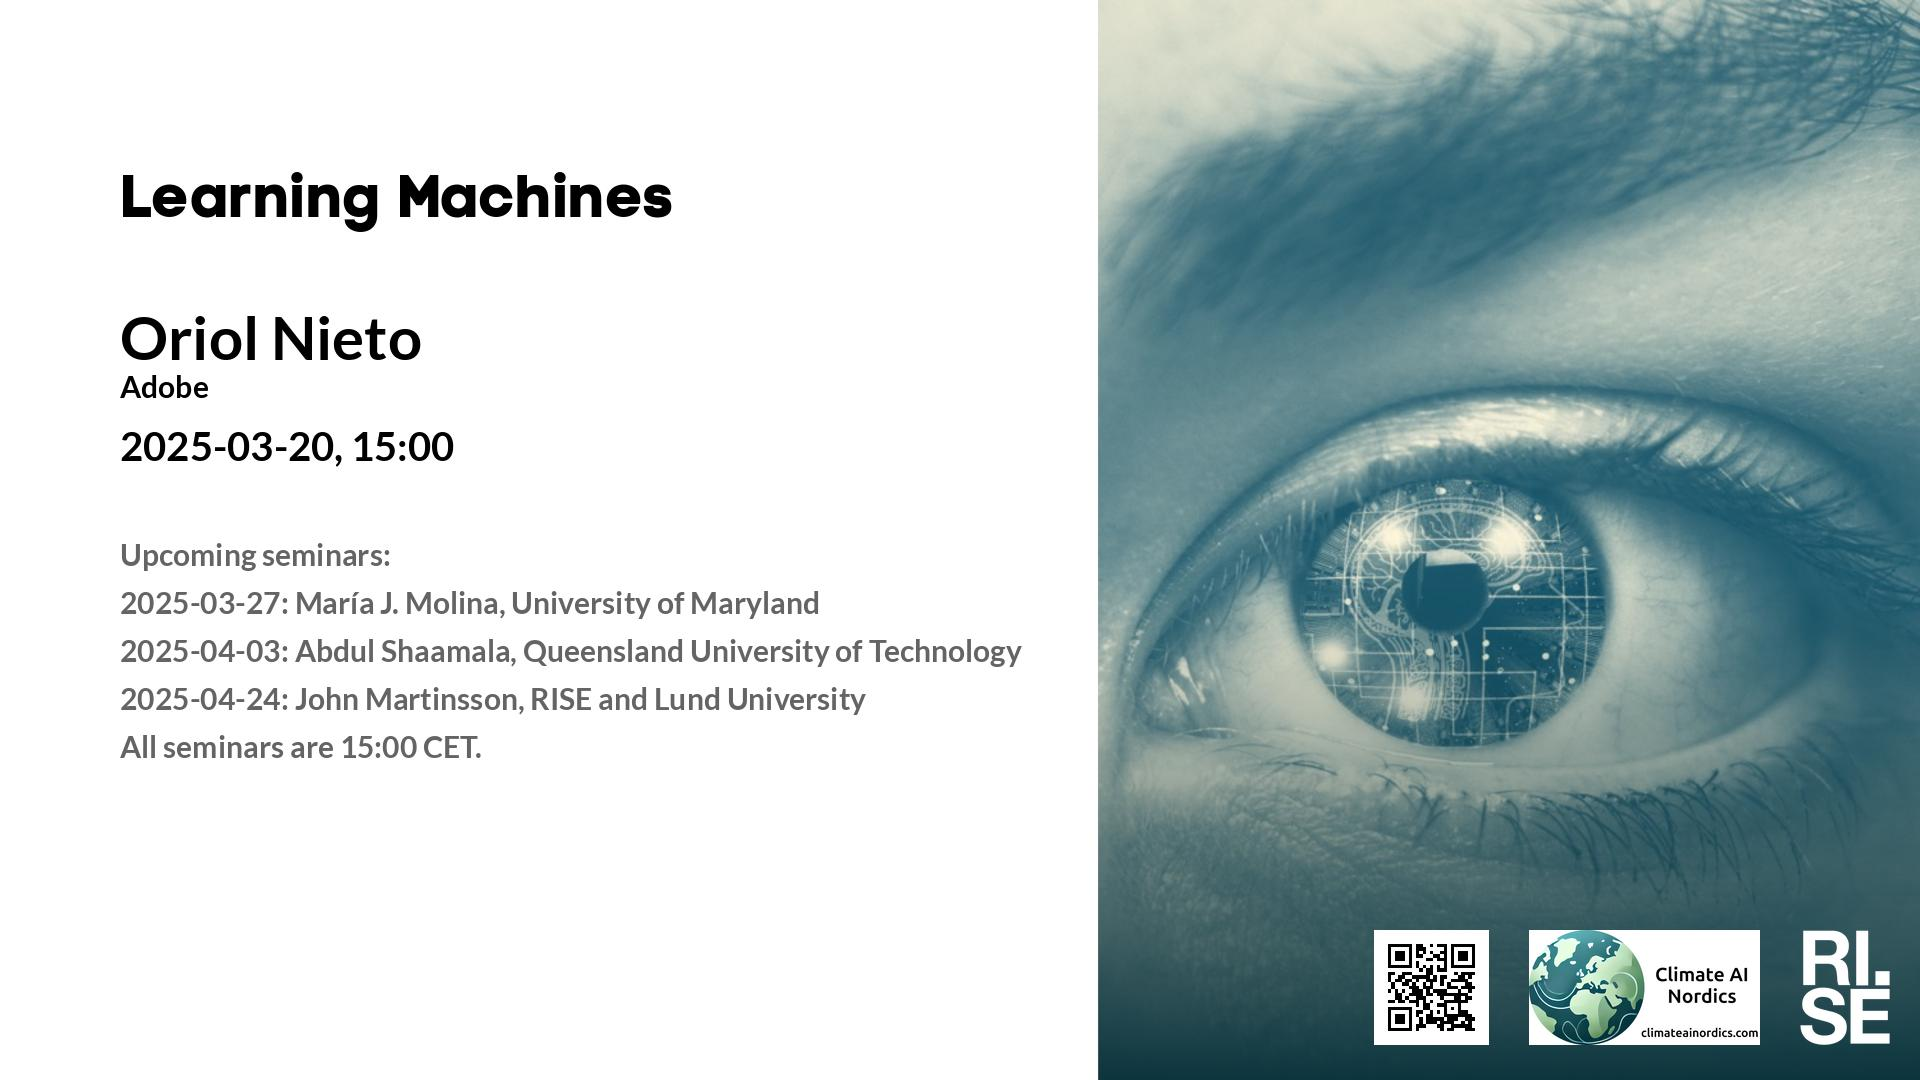
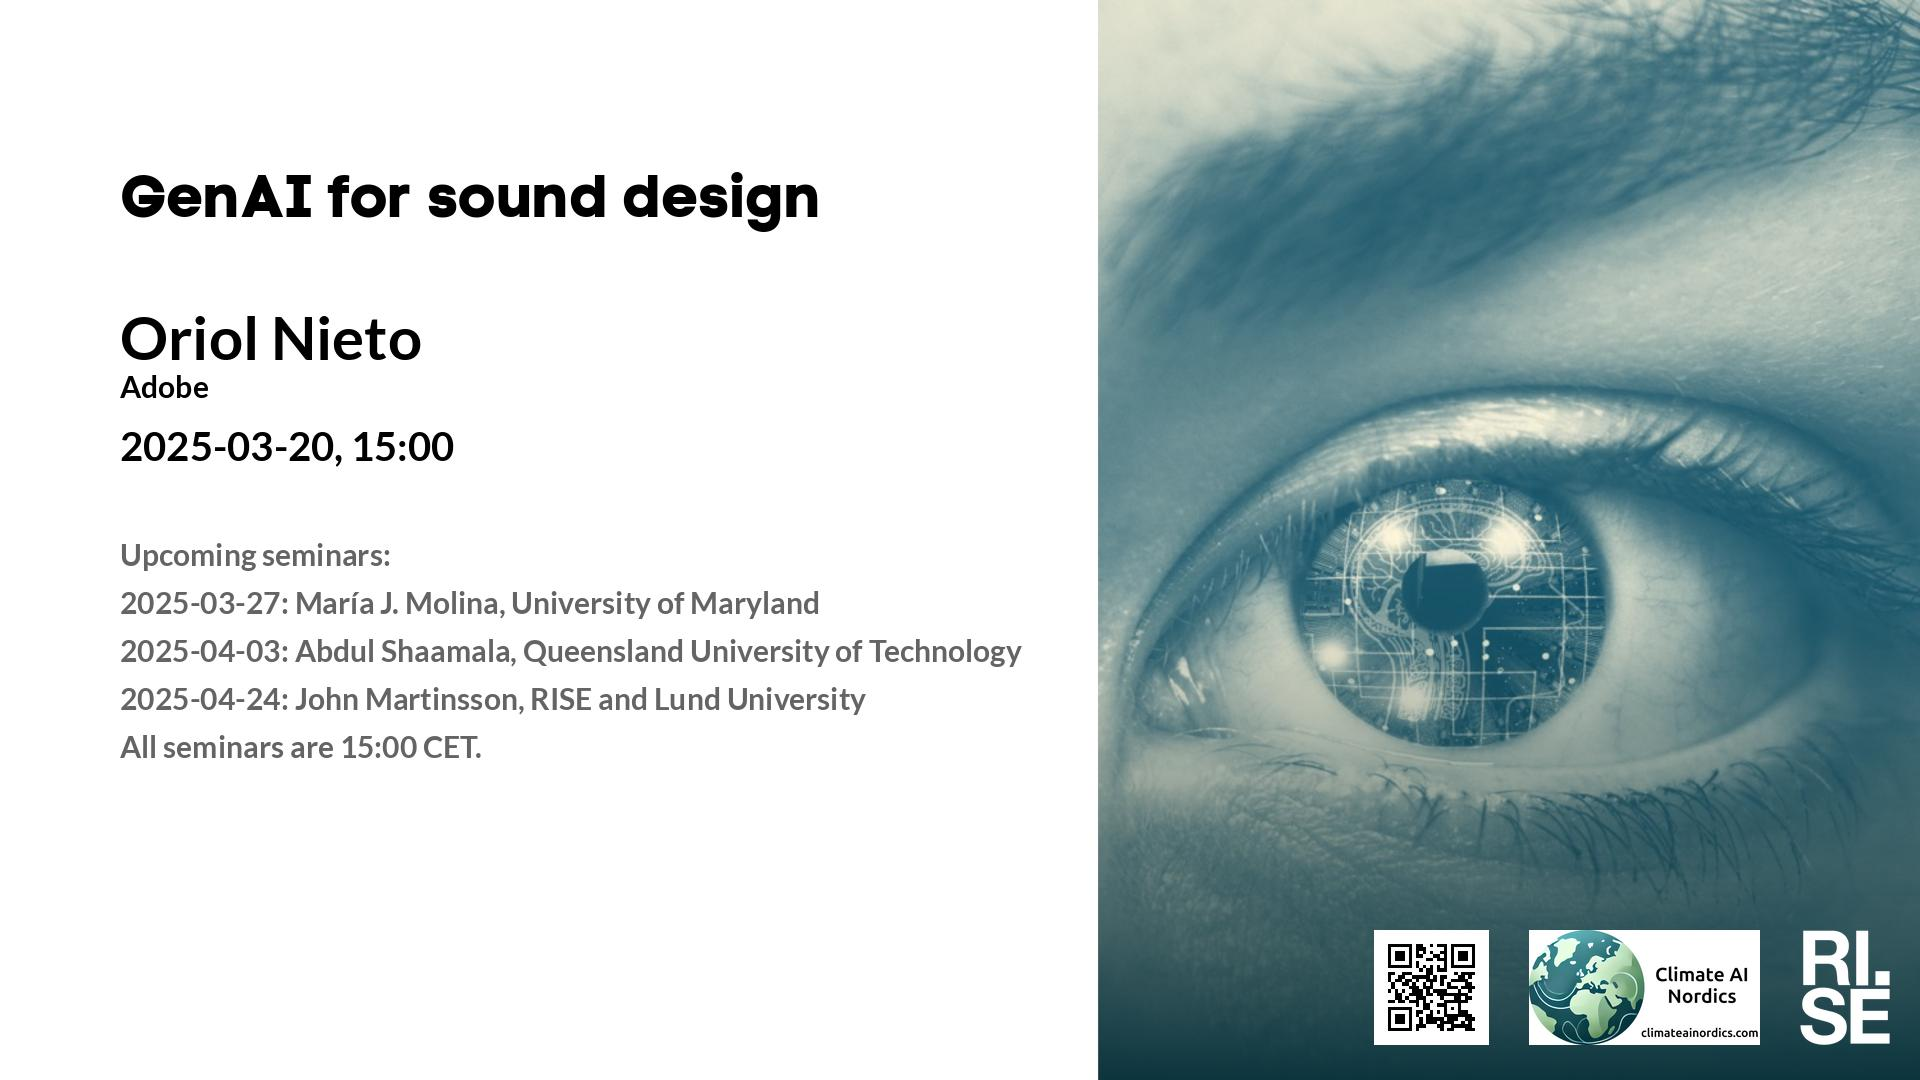
Updated plan on web site.

Changed region(s): [[0.0625, 0.1528, 0.4375, 0.2139]]

diff --git a/lm/2025-03-20.md b/lm/2025-03-20.md
@@ -7,13 +7,19 @@ Welcome to this week's Learning Machines seminar.
 
 This seminar is a collaboration between RISE and Climate AI Nordics -- [climateainordics.com](https://climateainordics.com/).
 
-**Title:** N/A
+**Title:** GenAI for sound design
 
 **Speaker:** Oriol Nieto, Adobe
 
-**Abstract:** N/A
+**Abstract:** This presentation explores the forefront of generative AI research for sound design at Adobe Research. I will provide an overview of Latent Diffusion Models, which form the foundation of our work, and introduce several recent advancements focused on controllability and multimodality. I will begin with SILA [1], a technique designed to enhance the control of sound effects generated through text prompts. Following this, I will present Sketch2Sound [2], a model that generates sound effects conditioned on both audio recordings and text. Lastly, I will examine MultiFoley [3], a model capable of generating sound effects from both silent videos and text. Throughout the talk, I will showcase a series of examples and demos to illustrate the practical applications and potential of these models, making the case that we are only beginning to unveil a completely new paradigm in how to approach sound design.
 
-**About the speaker:** Oriol Nieto is a researcher at Adobe focusing on machine learning and signal processing for audio. He contributed to Premiere Pro with AI technologies, including Audio Category Tagging, and also co-authored the popular Python library librosa. He is involved in the ISMIR community and serve as General Co-Chair of ISMIR 2024. A multi-instrumentalist, he performs in diverse bands and manages Jarl’em All Studios. Previously, he taught courses at NYU and collaborated with Jordan Rudess to develop iOS music apps.
+[1] Sonal Kumar, Prem Seetharaman, Justin Salamon, Dinesh Manocha, Oriol Nieto, &quot;SILA: Signal-to-Language Augmentation for Enhanced Control in Text-to-Audio Generation&quot;, In review for IEEE SPL
+
+[2] Hugo Flores García, Oriol Nieto, Justin Salamon, Bryan Pardo, Prem Seetharaman, &quot;Sketch2Sound: Controllable Audio Generation via Time-Varying Signals and Sonic Imitations&quot;, ICASSP 2025
+
+[3] Ziyang Chen, Prem Seetharaman, Bryan Russell, Oriol Nieto, David Bourgin, Andrew Owens, Justin Salamon, &quot;Video-Guided Foley Sound Generation with Multimodal Controls&quot;, In review for CVPR 2025
+
+**About the speaker:** Oriol is a Senior Research Engineer at Adobe Research, where he focuses on human-centered AI for audio creativity, encompassing everything from music to audiobooks, video editing, and sound design. He holds a PhD in Music Technology from MARL, NYU, a Master&#x27;s in Music, Science, and Technology from Stanford University, and a Master&#x27;s in Information Technologies from Pompeu Fabra University. Highly involved with the Music Information Retrieval community, he was one of the three General Chairs for ISMIR 2024 in San Francisco this past November. Oriol has helped develop relevant open-source MIR packages such as librosa, mir-eval, and MSAF; contributed to PyTorch; and plays guitar, violin, cajón, and sings (and screams) in his spare time.
 
 **Location:** This is an online seminar. Connect using Zoom.
 

diff --git a/lm/2025.md b/lm/2025.md
@@ -17,7 +17,7 @@ table {border-collapse: collapse;}
 |  2025-02-20  |  [Abdulhakim Abdi, Lund University](2025-02-20.md)  |  [photo](2025-02-20-photo-abdulhakim-abdi.jpg)  |  [social media ](2025-02-20-social-media-abdulhakim-abdi.jpg)  |  [meeting backdrop ](2025-02-20-meeting-backdrop-abdulhakim-abdi.jpg)  |  [youtube thumbnail ](2025-02-20-youtube-thumbnail-abdulhakim-abdi.jpg)  |  STABP  |
 | <span style="color:red"> 2025-02-27 </span> | <span style="color:red"> Sportlov STHLM </span> | <span style="color:red">  </span> | <span style="color:red">  </span> | <span style="color:red">  </span> | <span style="color:red">  </span> | <span style="color:red"> CANCELLED </span> |
 |  2025-03-06  |  [Atakan Aral, University of Vienna](2025-03-06.md)  |  [photo](2025-03-06-photo-atakan-aral.jpg)  |  [social media ](2025-03-06-social-media-atakan-aral.jpg)  |  [meeting backdrop ](2025-03-06-meeting-backdrop-atakan-aral.jpg)  |  [youtube thumbnail ](2025-03-06-youtube-thumbnail-atakan-aral.jpg)  |  STABP  |
-|  2025-03-20  |  [Oriol Nieto, Adobe](2025-03-20.md)  |  [photo](2025-03-20-photo-oriol-nieto.jpg)  |  [social media ](2025-03-20-social-media-oriol-nieto.jpg)  |  [meeting backdrop ](2025-03-20-meeting-backdrop-oriol-nieto.jpg)  |  [youtube thumbnail ](2025-03-20-youtube-thumbnail-oriol-nieto.jpg)  |  S~~TA~~BP  |
+|  2025-03-20  |  [Oriol Nieto, Adobe](2025-03-20.md)  |  [photo](2025-03-20-photo-oriol-nieto.jpg)  |  [social media ](2025-03-20-social-media-oriol-nieto.jpg)  |  [meeting backdrop ](2025-03-20-meeting-backdrop-oriol-nieto.jpg)  |  [youtube thumbnail ](2025-03-20-youtube-thumbnail-oriol-nieto.jpg)  |  STABP  |
 |  2025-03-27  |  [María J. Molina, University of Maryland](2025-03-27.md)  |  [photo](2025-03-27-photo-maria-j.-molina.jpg)  |  [social media ](2025-03-27-social-media-maria-j.-molina.jpg)  |  [meeting backdrop ](2025-03-27-meeting-backdrop-maria-j.-molina.jpg)  |  [youtube thumbnail ](2025-03-27-youtube-thumbnail-maria-j.-molina.jpg)  |  STABP  |
 |  2025-04-03  |  [Abdul Shaamala, Queensland University of Technology](2025-04-03.md)  |  [photo](2025-04-03-photo-abdul-shaamala.jpg)  |  [social media ](2025-04-03-social-media-abdul-shaamala.jpg)  |  [meeting backdrop ](2025-04-03-meeting-backdrop-abdul-shaamala.jpg)  |  [youtube thumbnail ](2025-04-03-youtube-thumbnail-abdul-shaamala.jpg)  |  S~~TAB~~P  |
 | <span style="color:purple"> 2025-04-10 </span> | <span style="color:purple"> *Up for grabs!!!* </span> | <span style="color:purple">  </span> | <span style="color:purple">  </span> | <span style="color:purple">  </span> | <span style="color:purple">  </span> | <span style="color:purple"> ~~STABP~~ </span> |

diff --git a/lm/index.md b/lm/index.md
@@ -17,7 +17,7 @@ table {border-collapse: collapse;}
 |  2025-02-20  |  [Abdulhakim Abdi, Lund University](2025-02-20.md)  |  [photo](2025-02-20-photo-abdulhakim-abdi.jpg)  |  [social media ](2025-02-20-social-media-abdulhakim-abdi.jpg)  |  [meeting backdrop ](2025-02-20-meeting-backdrop-abdulhakim-abdi.jpg)  |  [youtube thumbnail ](2025-02-20-youtube-thumbnail-abdulhakim-abdi.jpg)  |  STABP  |
 | <span style="color:red"> 2025-02-27 </span> | <span style="color:red"> Sportlov STHLM </span> | <span style="color:red">  </span> | <span style="color:red">  </span> | <span style="color:red">  </span> | <span style="color:red">  </span> | <span style="color:red"> CANCELLED </span> |
 |  2025-03-06  |  [Atakan Aral, University of Vienna](2025-03-06.md)  |  [photo](2025-03-06-photo-atakan-aral.jpg)  |  [social media ](2025-03-06-social-media-atakan-aral.jpg)  |  [meeting backdrop ](2025-03-06-meeting-backdrop-atakan-aral.jpg)  |  [youtube thumbnail ](2025-03-06-youtube-thumbnail-atakan-aral.jpg)  |  STABP  |
-|  2025-03-20  |  [Oriol Nieto, Adobe](2025-03-20.md)  |  [photo](2025-03-20-photo-oriol-nieto.jpg)  |  [social media ](2025-03-20-social-media-oriol-nieto.jpg)  |  [meeting backdrop ](2025-03-20-meeting-backdrop-oriol-nieto.jpg)  |  [youtube thumbnail ](2025-03-20-youtube-thumbnail-oriol-nieto.jpg)  |  S~~TA~~BP  |
+|  2025-03-20  |  [Oriol Nieto, Adobe](2025-03-20.md)  |  [photo](2025-03-20-photo-oriol-nieto.jpg)  |  [social media ](2025-03-20-social-media-oriol-nieto.jpg)  |  [meeting backdrop ](2025-03-20-meeting-backdrop-oriol-nieto.jpg)  |  [youtube thumbnail ](2025-03-20-youtube-thumbnail-oriol-nieto.jpg)  |  STABP  |
 |  2025-03-27  |  [María J. Molina, University of Maryland](2025-03-27.md)  |  [photo](2025-03-27-photo-maria-j.-molina.jpg)  |  [social media ](2025-03-27-social-media-maria-j.-molina.jpg)  |  [meeting backdrop ](2025-03-27-meeting-backdrop-maria-j.-molina.jpg)  |  [youtube thumbnail ](2025-03-27-youtube-thumbnail-maria-j.-molina.jpg)  |  STABP  |
 |  2025-04-03  |  [Abdul Shaamala, Queensland University of Technology](2025-04-03.md)  |  [photo](2025-04-03-photo-abdul-shaamala.jpg)  |  [social media ](2025-04-03-social-media-abdul-shaamala.jpg)  |  [meeting backdrop ](2025-04-03-meeting-backdrop-abdul-shaamala.jpg)  |  [youtube thumbnail ](2025-04-03-youtube-thumbnail-abdul-shaamala.jpg)  |  S~~TAB~~P  |
 | <span style="color:purple"> 2025-04-10 </span> | <span style="color:purple"> *Up for grabs!!!* </span> | <span style="color:purple">  </span> | <span style="color:purple">  </span> | <span style="color:purple">  </span> | <span style="color:purple">  </span> | <span style="color:purple"> ~~STABP~~ </span> |
